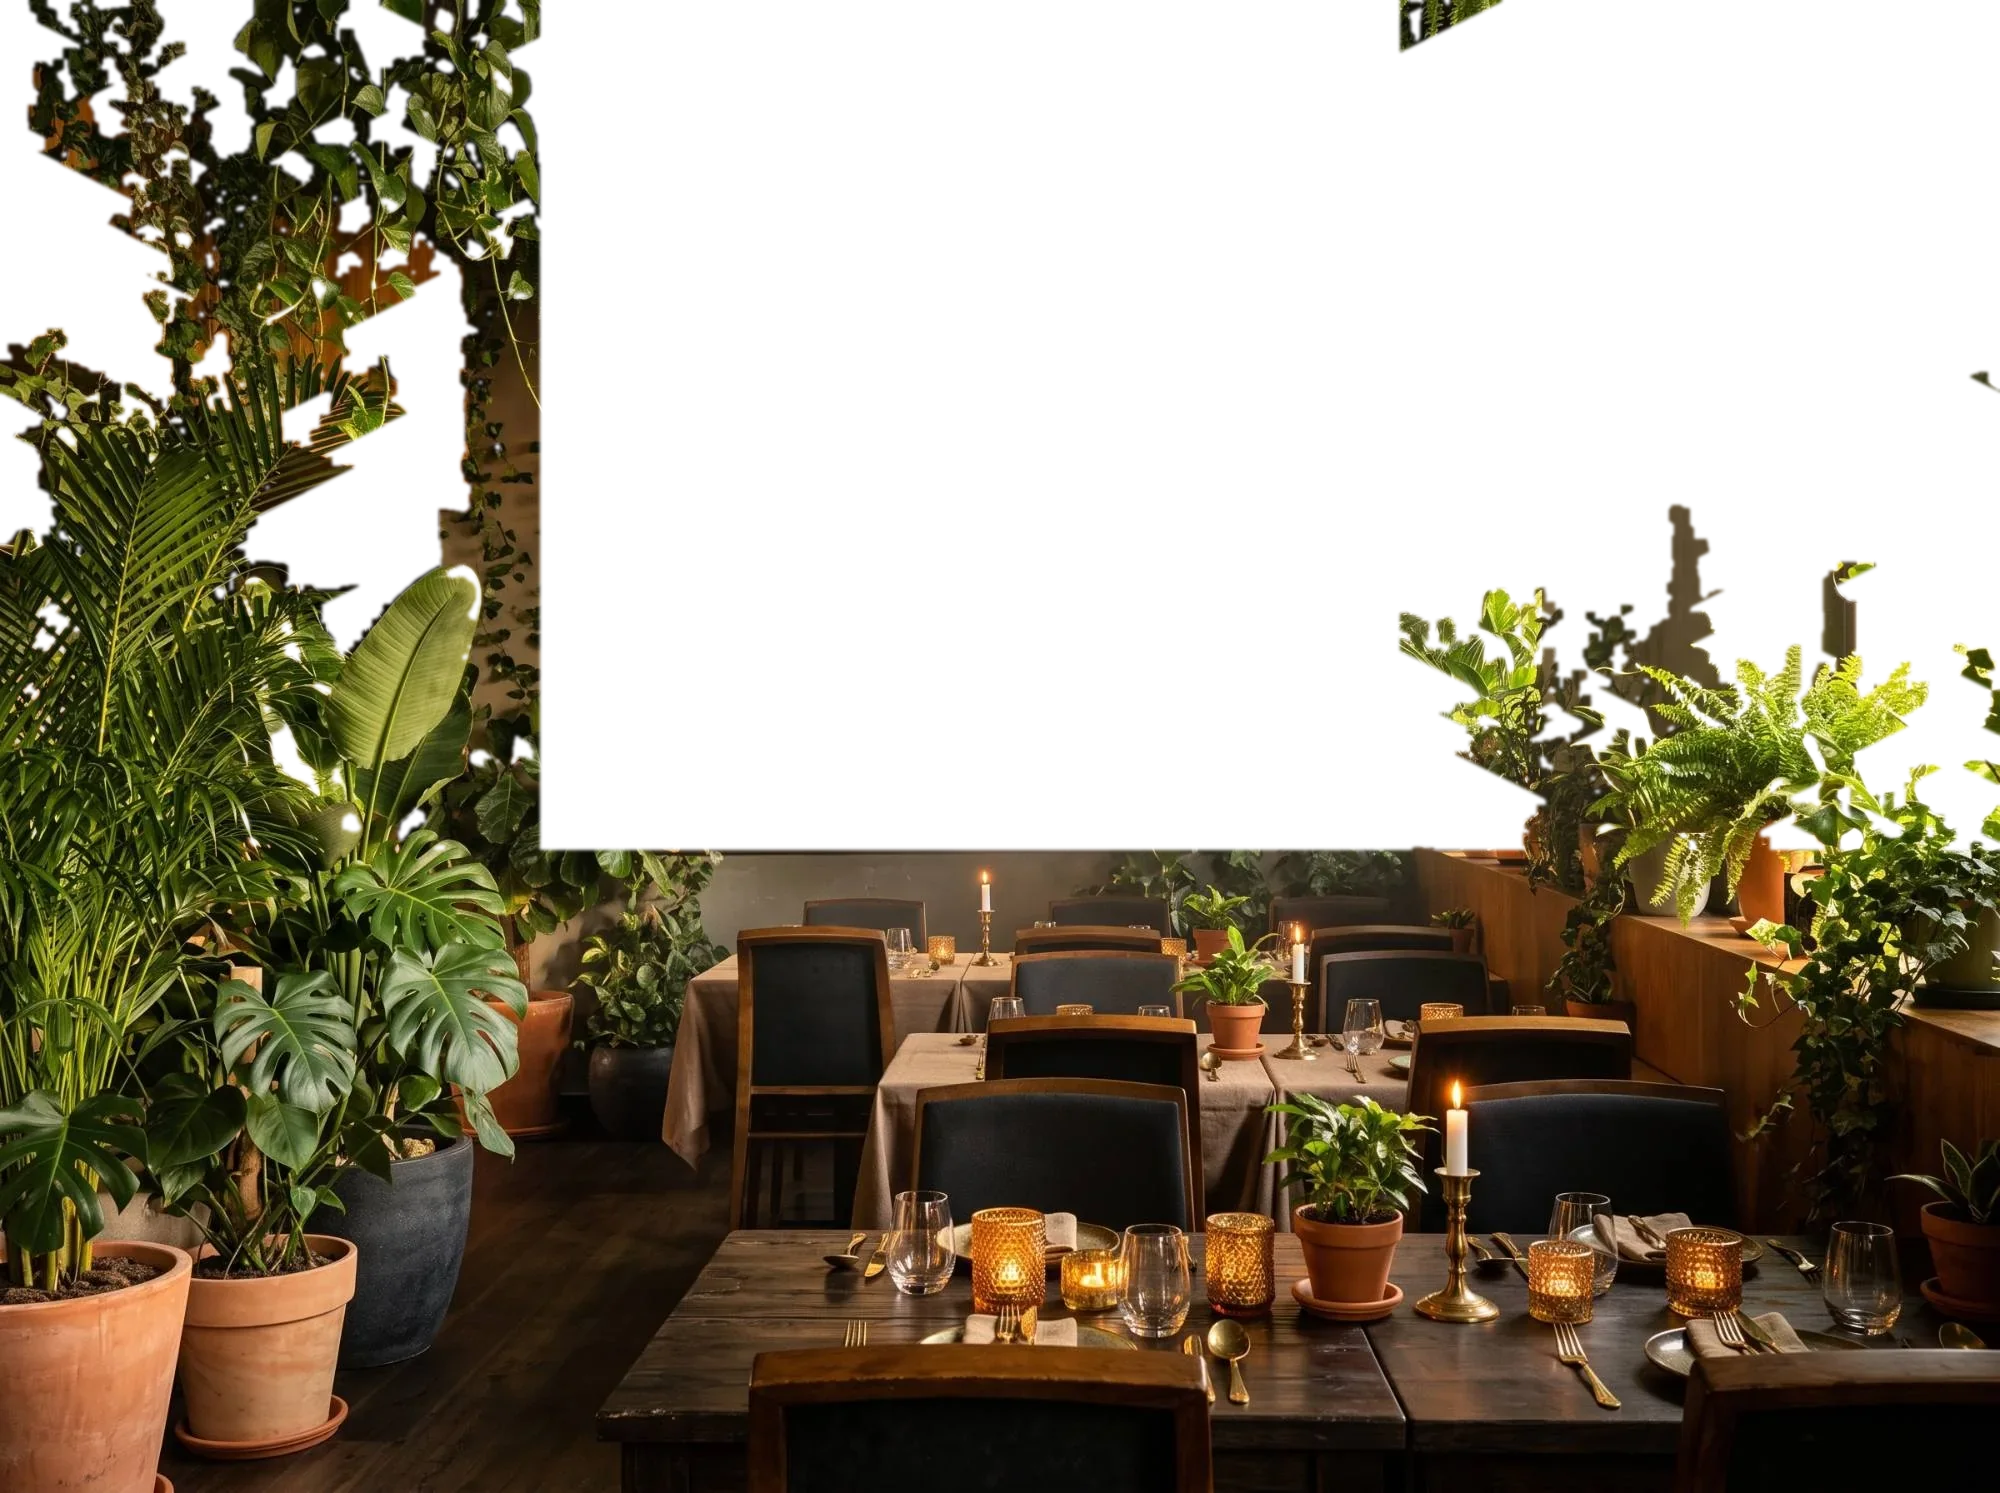
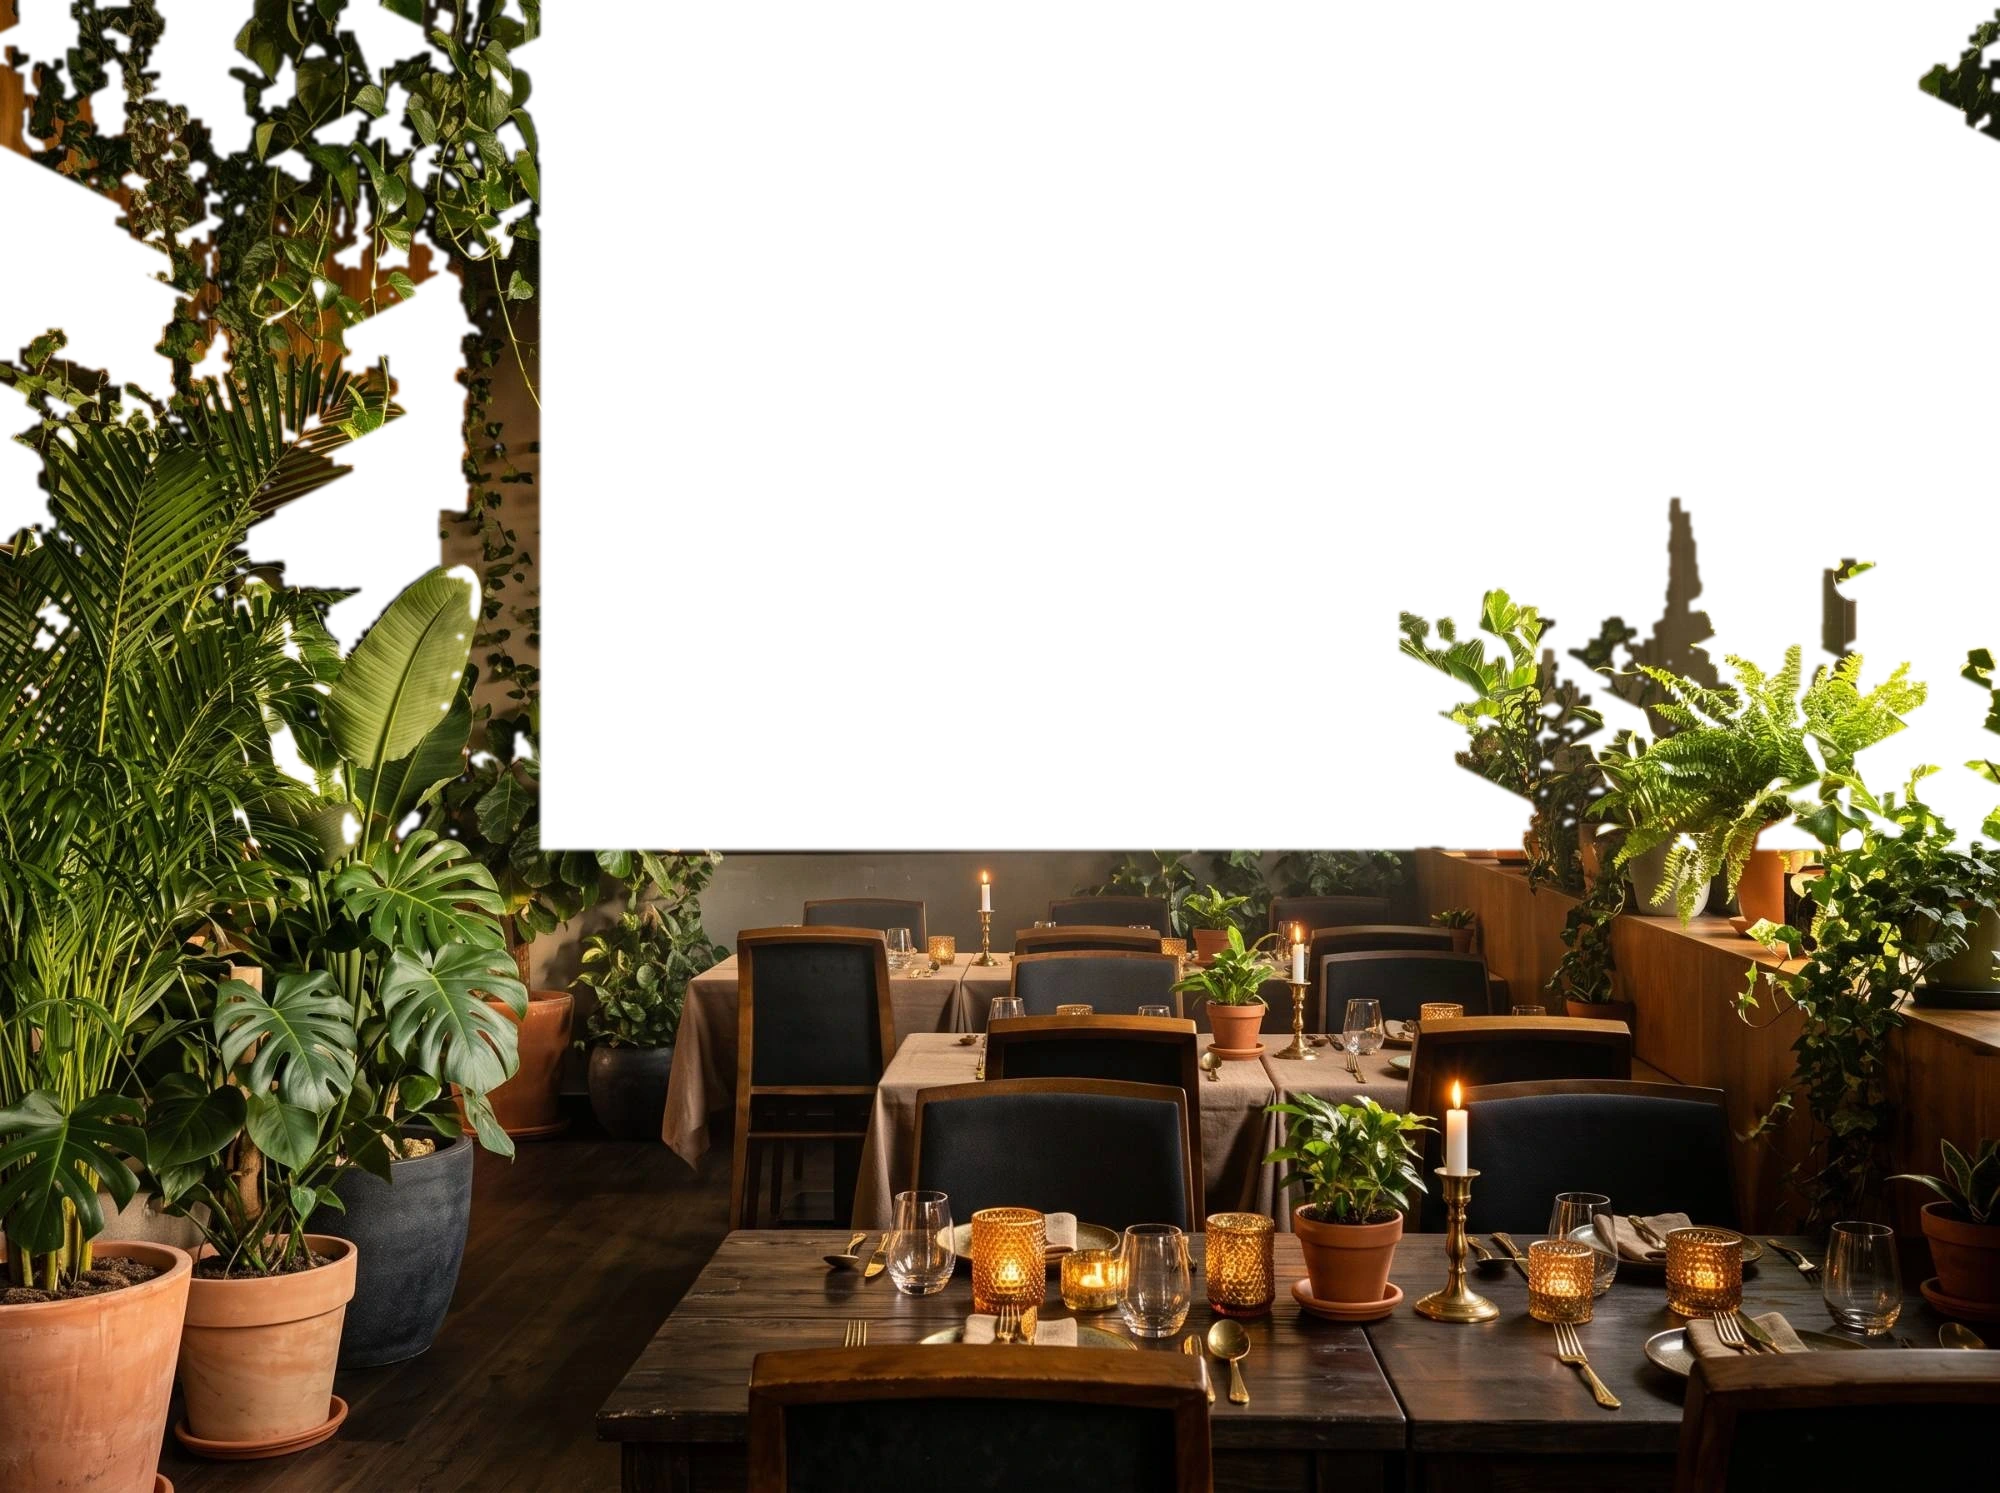
Sharper images, calmer reveals, one continuous ending
- Serve photos as exported (no on-the-fly resizing, which made
  full-screen crops soft on phones); AI images and supplied photos
  re-exported at high quality from the originals, cut-outs rebuilt
- Portrait dish and cocktail photos shown framed, no longer stretched
  and zoomed across the screen
- Terrace: line switches on only once the foreground is fully opaque and
  starts well below the wall, so it never flashes through the plants
- Patio: the line rests in the middle of the picture
- Ending is one pinned scene: the sentence rises from behind the towers
  and stays; the lift then appears over the same view and closes

Claude-Session: https://claude.ai/code/session_019sGDiQRXDpGcMb6uA98yw8

diff --git a/components/Closing.tsx b/components/Closing.tsx
@@ -1,75 +1,104 @@
 "use client";
 
 import React, { useEffect, useRef, useState } from "react";
-import { useMotionValueEvent, useScroll } from "framer-motion";
 import Image from "next/image";
+import { motion, useMotionValueEvent, useScroll, useTransform } from "framer-motion";
 import LiftDoors from "./LiftDoors";
 import Logo from "./Logo";
-import SkylineQuote from "./SkylineQuote";
+import { Heavy, Serif } from "./LogoType";
 
 export interface ClosingProps {
   /** Engraves "Une vision de Sabrina" under the logo when the doors close */
   showSabrinaCredit?: boolean;
 }
 
-export default function Closing({ showSabrinaCredit = true }: ClosingProps) {
-  const doorSectionRef = useRef<HTMLDivElement | null>(null);
-  const [doorsClosed, setDoorsClosed] = useState(false);
-  const [plaqueVisible, setPlaqueVisible] = useState(false);
+const FIT = "object-cover object-[center_41%]";
+// Scroll progress through the pinned ending at which the lift appears and its doors close.
+const LIFT_AT = 0.6;
 
-  // The end card is pinned: Lyon stays in view through the open doors for a while,
-  // then the doors close as you scroll on, and the engraving appears once they meet.
-  const { scrollYProgress } = useScroll({ target: doorSectionRef, offset: ["start start", "end end"] });
-  useMotionValueEvent(scrollYProgress, "change", (v) => setDoorsClosed(v > 0.4));
+// One pinned scene: Lyon's skyline, her final sentence rising from behind the towers and
+// resting above them, then the lift appears over that same view and its doors close.
+export default function Closing({ showSabrinaCredit = true }: ClosingProps) {
+  const ref = useRef<HTMLDivElement | null>(null);
+  const { scrollYProgress } = useScroll({ target: ref, offset: ["start start", "end end"] });
+  const textY = useTransform(scrollYProgress, [0.03, 0.38], ["70svh", "0svh"]);
+  const zoom = useTransform(scrollYProgress, [0, LIFT_AT], [1.1, 1]);
+
+  const [bgReady, setBgReady] = useState(false);
+  const [fgReady, setFgReady] = useState(false);
+  const [lift, setLift] = useState<"view" | "frame" | "closed">("view");
+  const [engraved, setEngraved] = useState(false);
+
+  useMotionValueEvent(scrollYProgress, "change", (v) => {
+    if (v < LIFT_AT) setLift("view");
+    else setLift((l) => (l === "view" ? "frame" : l));
+  });
+
+  // The frame fades in around the view first, then the doors slide shut, then the engraving.
   useEffect(() => {
-    if (!doorsClosed) {
-      setPlaqueVisible(false);
+    if (lift === "view") {
+      setEngraved(false);
       return;
     }
-    const t = setTimeout(() => setPlaqueVisible(true), 2700);
+    if (lift === "frame") {
+      const t = setTimeout(() => setLift("closed"), 700);
+      return () => clearTimeout(t);
+    }
+    const t = setTimeout(() => setEngraved(true), 2700);
     return () => clearTimeout(t);
-  }, [doorsClosed]);
+  }, [lift]);
 
   return (
-    <footer aria-label="Conclusion" data-chapter="The Lift" className="relative w-full select-none">
-      {/* BEAT 1: her final sentence rises from behind Lyon's skyline */}
-      <SkylineQuote />
+    <footer ref={ref} aria-label="Conclusion" data-chapter="The Lift" className="relative h-[480svh] w-full select-none">
+      <div className="sticky top-0 h-svh min-h-[560px] overflow-hidden bg-[#0E0B08]">
+        <motion.div className="absolute inset-0" style={{ scale: zoom }}>
+          <Image
+            src="/images/closing-lyon.webp"
+            alt="Lyon, ses tours et le Rhône au petit matin"
+            fill
+            sizes="100vw"
+            loading="eager"
+            className={FIT}
+            onLoad={() => setBgReady(true)}
+          />
 
-      {/* BEAT 2: quiet end card, the real lift doors closing over the view */}
-      <div ref={doorSectionRef} className="relative h-[220svh]">
-        <div className="sticky top-0 flex h-svh min-h-[560px] w-full flex-col overflow-hidden bg-[#0E0B08]">
-          <div
-            className="pointer-events-none absolute inset-0 z-0 transition-[transform,filter] duration-[2600ms] ease-[cubic-bezier(0.22,1,0.36,1)]"
-            style={{
-              transform: doorsClosed ? "scale(1.06)" : "scale(1)",
-              filter: doorsClosed ? "brightness(0.45)" : "brightness(0.95)",
-            }}
+          {/* Her final sentence, between the sky and the city */}
+          <motion.div
+            className={`absolute inset-x-0 top-[13svh] px-6 text-center transition-opacity duration-500 lg:top-[19svh] ${
+              bgReady && fgReady ? "opacity-100" : "opacity-0"
+            }`}
+            style={{ y: textY }}
           >
+            <p className="mx-auto max-w-[17ch] text-balance text-[2rem] text-[#1C1917] sm:max-w-[19ch] sm:text-5xl lg:text-[3.4rem]">
+              <Serif>Parce qu’au fond, nos clients oublieront peut-être ce qu’ils ont commandé,</Serif>
+              <Heavy>mais jamais la façon dont nous les avons fait se sentir.</Heavy>
+            </p>
+          </motion.div>
+
+          {/* The city, the towers and the leaves in front: drawn over the text */}
+          <div className="pointer-events-none absolute inset-0">
             <Image
-              src="/images/closing-lyon.webp"
-              alt="Vue depuis le 8e étage à Lyon"
+              src="/images/closing-lyon-fg.webp"
+              alt=""
               fill
               sizes="100vw"
-              className="object-cover object-[center_41%]"
+              loading="eager"
+              className={FIT}
+              onLoad={() => setFgReady(true)}
             />
           </div>
+          <div className="pointer-events-none absolute inset-0 bg-[linear-gradient(to_bottom,var(--color-cream),transparent_14%)]" />
+        </motion.div>
 
-          {/* The real lift doors, sliding back from left to right */}
-          <LiftDoors
-            className="absolute inset-0 z-10"
-            open={!doorsClosed}
-            floor="8"
-            arrow={doorsClosed ? "down" : null}
-            glow
-            duration={2600}
-          >
+        {/* The lift appears over the same view, then its doors close */}
+        <div
+          className={`absolute inset-0 z-10 transition-opacity duration-700 ${lift === "view" ? "pointer-events-none opacity-0" : "opacity-100"}`}
+        >
+          <LiftDoors className="h-full" open={lift !== "closed"} floor="8" arrow={lift === "closed" ? "down" : null} glow duration={2600}>
             {/* Engraved on the closed steel */}
             <div
               className="flex h-full items-center justify-center px-4 transition-all duration-1000 ease-[cubic-bezier(0.22,1,0.36,1)]"
-              style={{
-                opacity: plaqueVisible ? 1 : 0,
-                transform: plaqueVisible ? "scale(1)" : "scale(0.97)",
-              }}
+              style={{ opacity: engraved ? 1 : 0, transform: engraved ? "scale(1)" : "scale(0.97)" }}
             >
               <div className="flex flex-col items-center gap-5">
                 <Logo className="w-44 text-[#2b2017]/75 drop-shadow-[0_1px_0_rgba(255,240,220,0.35)] sm:w-64" cable={60} />

diff --git a/components/Food.tsx b/components/Food.tsx
@@ -27,14 +27,17 @@ export default function Food() {
           </EtSi>
         </div>
 
-        <Photo
-          src="/images/food-golden.webp"
-          alt="Des assiettes à partager posées sur une table en bois, dans la lumière dorée du soir"
-          className="h-[85svh] w-full"
-          parallax={8}
-          position="center 45%"
-          overlay="bg-gradient-to-b from-[#3b1d10] via-transparent to-[#3b1d10]"
-        />
+        {/* Portrait photo: shown framed and whole, never stretched across the screen */}
+        <Reveal className="mx-auto w-[calc(100%-2.5rem)] max-w-lg">
+          <Photo
+            src="/images/food-golden.webp"
+            alt="Des assiettes à partager posées sur une table en bois, dans la lumière dorée du soir"
+            className="aspect-[3/4] w-full rounded-sm"
+            sizes="(min-width: 640px) 512px, 100vw"
+            parallax={4}
+            position="center 45%"
+          />
+        </Reveal>
 
         <div className="mx-auto max-w-2xl px-6 pt-24 text-center sm:pt-32">
           <Reveal>
@@ -132,8 +135,8 @@ export default function Food() {
           alt="Une terrasse végétalisée au crépuscule, des tablées d’amis sous les guirlandes"
           fit="object-cover object-[center_14%]"
           height="h-[280svh]"
-          from="70svh"
-          top="top-[13svh] sm:top-[15svh]"
+          from="62svh"
+          top="top-[17svh] lg:top-[40svh]"
           riseEnd={0.6}
           overlay="bg-[linear-gradient(to_bottom,#3b1d10,transparent_18%,transparent_80%,#3b1d10)]"
         >

diff --git a/components/TerraceDusk.tsx b/components/TerraceDusk.tsx
@@ -21,7 +21,9 @@ export default function TerraceDusk() {
   const zoom = useTransform(scrollYProgress, [0, 1], [1.08, 1]);
   // The foreground cut-out is the sunset picture itself, so it only appears once the sunset is complete.
   const fgOpacity = useTransform(scrollYProgress, [0.6, 0.61], [0, 1]);
-  const lineY = useTransform(scrollYProgress, [0.64, 0.95], ["48svh", "0svh"]);
+  const lineY = useTransform(scrollYProgress, [0.64, 0.95], ["72svh", "0svh"]);
+  // The line only switches on once the foreground is fully opaque, so it never shows through it.
+  const lineOpacity = useTransform(scrollYProgress, [0.615, 0.62], [0, 1]);
   const [fgReady, setFgReady] = useState(false);
 
   return (
@@ -42,7 +44,7 @@ export default function TerraceDusk() {
           {/* Her line, between the background and the foreground */}
           <motion.div
             className={`absolute inset-x-0 top-[17svh] px-6 text-center lg:top-[8svh] ${fgReady ? "" : "invisible"}`}
-            style={{ y: lineY, opacity: fgOpacity }}
+            style={{ y: lineY, opacity: lineOpacity }}
           >
             <p className="mx-auto max-w-[14ch] text-balance text-[2.9rem] text-cream drop-shadow-[0_2px_22px_rgba(0,0,0,0.65)] sm:text-7xl lg:text-[5.2rem]">
               <Serif>Un ailleurs inattendu,</Serif>

diff --git a/components/Drinks.tsx b/components/Drinks.tsx
@@ -72,14 +72,16 @@ export default function Drinks() {
           </Reveal>
         </div>
 
-        <Photo
-          src="/images/drinks-tray.webp"
-          alt="Un serveur porte un plateau de cocktails ambrés dans la pénombre du bar"
-          className="mx-auto h-[85svh] w-full max-w-6xl"
-          position="center 62%"
-          parallax={6}
-          overlay="bg-gradient-to-b from-night via-transparent to-night"
-        />
+        {/* Portrait photo: shown framed and whole, never stretched across the screen */}
+        <Reveal className="mx-auto w-[calc(100%-2.5rem)] max-w-lg pb-8">
+          <Photo
+            src="/images/drinks-tray.webp"
+            alt="Un serveur porte un plateau de cocktails ambrés dans la pénombre du bar"
+            className="aspect-[4/5] w-full rounded-sm"
+            sizes="(min-width: 640px) 512px, 100vw"
+            parallax={4}
+          />
+        </Reveal>
 
         <Statement
           photo={{ src: "/images/drinks-wine.webp", alt: "Un vin rouge servi dans un verre, lumière chaude" }}

diff --git a/next.config.ts b/next.config.ts
@@ -2,7 +2,9 @@ import type { NextConfig } from "next";
 
 const nextConfig: NextConfig = {
   images: {
-    formats: ["image/avif", "image/webp"],
+    // Serve the photos exactly as exported in public/images (already WebP, high quality).
+    // Resizing on the fly made full-screen crops on phones look soft.
+    unoptimized: true,
   },
   async headers() {
     return [

diff --git a/docs/foreground-cutouts.py b/docs/foreground-cutouts.py
@@ -16,7 +16,7 @@ def save(src_rgb, top, out, feather=1.5):
     mask = (yy >= top[None, :]).astype(np.uint8) * 255
     m = Image.fromarray(mask).filter(ImageFilter.GaussianBlur(feather))
     im = Image.fromarray(src_rgb).convert('RGBA'); im.putalpha(m)
-    im.save(out, 'WEBP', quality=84, method=6)
+    im.save(out, 'WEBP', quality=92, method=6)
     prev = Image.new('RGBA', im.size, (255, 0, 160, 255)); prev.alpha_composite(im)
     prev.convert('RGB').resize((w // 3, h // 3)).save(out.rsplit('.', 1)[0] + '.preview.jpg')
 
@@ -47,7 +47,7 @@ if kind == 'terrace':
     m = m.filter(ImageFilter.GaussianBlur(1.5))
     im = Image.fromarray(sun).convert('RGBA'); im.putalpha(m)
     out = sys.argv[4]
-    im.save(out, 'WEBP', quality=84, method=6)
+    im.save(out, 'WEBP', quality=92, method=6)
     prev = Image.new('RGBA', im.size, (255, 0, 160, 255)); prev.alpha_composite(im)
     prev.convert('RGB').resize((w // 3, h // 3)).save(out.rsplit('.', 1)[0] + '.preview.jpg')
 elif kind == 'skyline':

diff --git a/docs/foreground-grow.py b/docs/foreground-grow.py
@@ -34,7 +34,7 @@ if clear:
 m = Image.fromarray((fg * 255).astype(np.uint8)).filter(ImageFilter.MaxFilter(3)).filter(ImageFilter.MinFilter(3))
 m = m.filter(ImageFilter.GaussianBlur(1.5))
 o = Image.fromarray(rgb).convert('RGBA'); o.putalpha(m)
-o.save(out, 'WEBP', quality=84, method=6)
+o.save(out, 'WEBP', quality=92, method=6)
 pv = Image.new('RGBA', o.size, (255, 0, 160, 255)); pv.alpha_composite(o)
 pv.convert('RGB').resize((w // 3, h // 3)).save(out.rsplit('.', 1)[0] + '.preview.jpg')
 print('ok', out)
